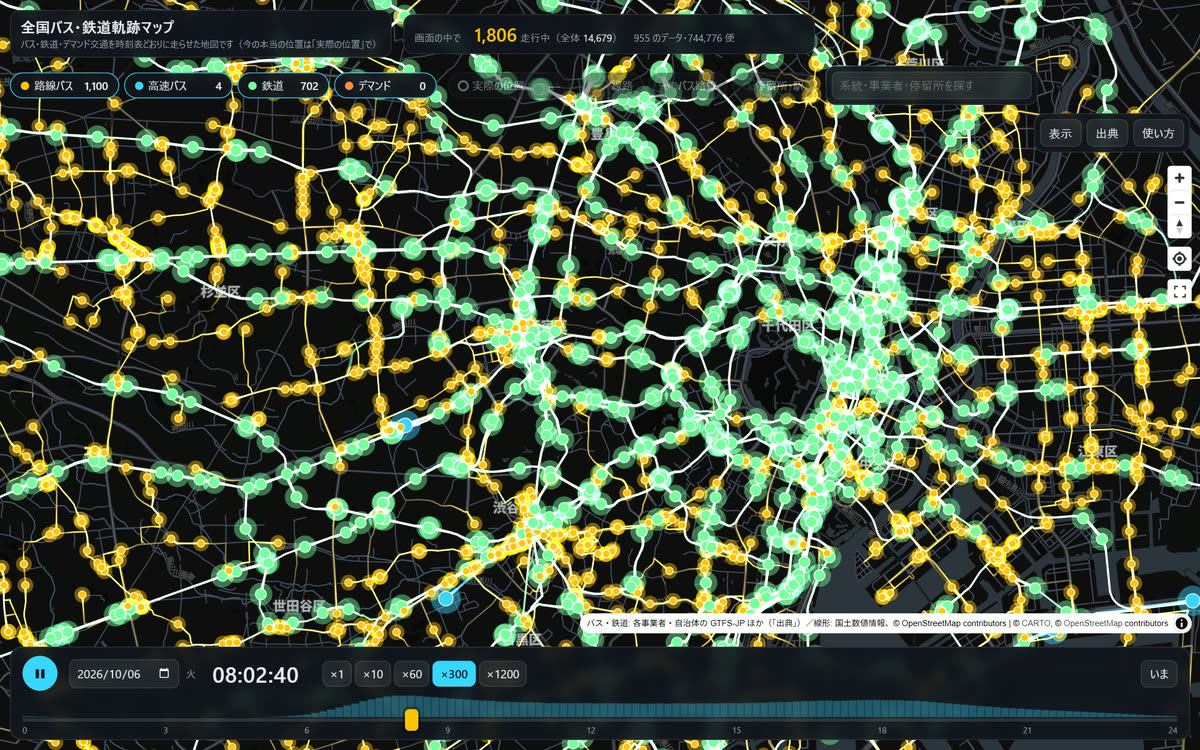
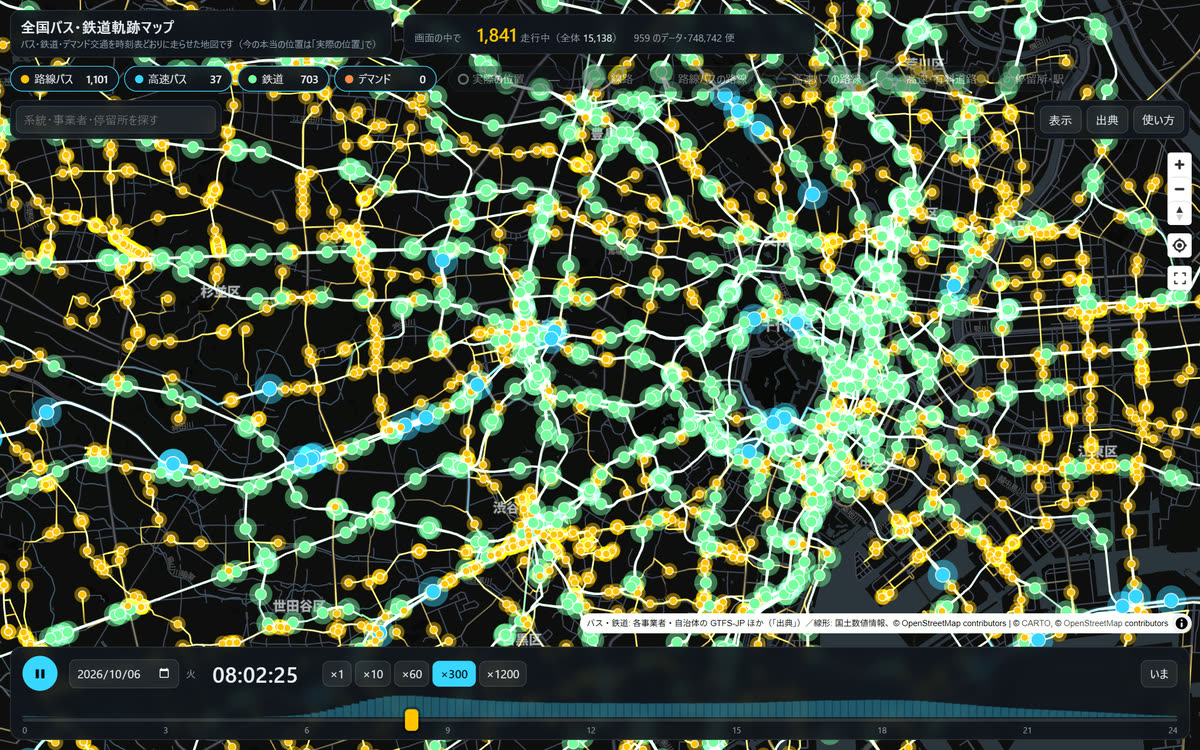
deploy from BusTracker 2026-10-05

diff --git a/manual.html b/manual.html
@@ -88,12 +88,13 @@
   </nav>
 
   <h2 id="about"><span class="n">1</span>このアプリについて</h2>
-  <p>全国の事業者・自治体が公開している公共交通の時刻表データ（GTFS-JP など）を一つの地図に集め、<b>約 74 万便</b>（20 種類の入手先・850 事業者・955 のデータ）を時刻表どおりに走らせています。路線バス・高速バス・鉄道・デマンド交通を同じ地図で見られます。</p>
+  <p>全国の事業者・自治体が公開している公共交通の時刻表データ（GTFS-JP など）を一つの地図に集め、<b>約 75 万便</b>（20 種類の入手先・約 870 事業者・959 のデータ）を時刻表どおりに走らせています。路線バス・高速バス・鉄道・デマンド交通を同じ地図で見られます。</p>
   <ul>
     <li>時刻を動かしたり早送りしたりして、朝のラッシュに都市へ集まり、夜に郊外へ散っていく公共交通の一日を見られます。</li>
     <li>バスや列車を押すと、系統・行先・停車駅と時刻が分かり、その便を地図が追いかけます。</li>
     <li>車両が配信している「いまの位置」（GTFS リアルタイム）を重ねて、時刻表との差（遅れ）を見られます。</li>
     <li>時刻表が公開されていない地域は列車・バスが走りません。全国の駅・線路・バス停を出し、走らない理由も示します。</li>
+    <li>高速バスは、GTFS の無い主要な路線も、予約サイト・事業者の時刻表から組み直して走らせています（約 1 万便）。高速道路・有料道路を通る道筋で描きます。</li>
   </ul>
   <figure><img src="manual/japan.jpg" alt="日本全体の地図に、朝 8 時のバス・鉄道が光の点と軌跡で表示されている" loading="lazy" width="1200" height="750"><figcaption>全国の一日（平日の朝 8 時、×300 で再生中）</figcaption></figure>
 
@@ -101,13 +102,22 @@
   <p>光る点がバス・列車、後ろに伸びて徐々に消えていく尾が、通ってきた軌跡（残像）です。高速バスは大きめの点と太い軌跡、鉄道は太めの軌跡で描きます。</p>
   <figure><img src="manual/city.jpg" alt="東京の都心部の地図に、多数のバス・鉄道が色とりどりの点と軌跡で表示されている。上に札と検索欄、下に時刻のつまみ" loading="lazy" width="1200" height="750"><figcaption>東京の朝のラッシュ。上の欄・下の欄・右の地図のボタン</figcaption></figure>
   <table>
-    <tr><th>上の欄</th><td>アプリ名、<b>画面の中で走っている台数</b>（かっこ内は読み込んだ全体）、乗り物の札（<a href="#modes">4</a>）、<span class="chip">実際の位置</span>（<a href="#realtime">7</a>）、<span class="chip">線路</span><span class="chip">路線バスの路線</span><span class="chip">高速バスの路線</span><span class="chip">停留所・駅</span>（<a href="#lines">8</a>）、検索欄、<span class="chip">表示</span><span class="chip">出典</span><span class="chip">使い方</span></td></tr>
+    <tr><th>上の欄</th><td>アプリ名、<b>画面の中で走っている台数</b>（かっこ内は読み込んだ全体）、乗り物の札（<a href="#modes">4</a>）、<span class="chip">実際の位置</span>（<a href="#realtime">7</a>）、<span class="chip">線路</span><span class="chip">路線バスの路線</span><span class="chip">高速バスの路線</span><span class="chip">高速・有料道路</span><span class="chip">停留所・駅</span>（<a href="#lines">8</a>）、検索欄、<span class="chip">表示</span><span class="chip">出典</span><span class="chip">使い方</span></td></tr>
     <tr><th>右の地図のボタン</th><td>拡大・縮小、方角（押すと北を上に戻す）、現在地、全体表示（日本全体に戻る）</td></tr>
     <tr><th>右の情報欄</th><td>押した系統・便・停留所・駅・車両の詳しい情報（<a href="#select">5</a>）</td></tr>
     <tr><th>下の欄</th><td>再生・一時停止、日付と曜日の区分（平日・土・日祝）、時刻、速さ（×1〜×1200）、<span class="chip">いま</span>、時刻のつまみ。つまみの下の帯は、その時刻に走っている台数のグラフです</td></tr>
   </table>
-  <p>地図はドラッグで移動、ホイールやピンチで拡大・縮小できます。右ドラッグで回転と傾き（上下に動かす）、スマホは 2 本指で回転と傾き（上下に動かす）もできます。方角のボタンを押すと、北が上・真上からに戻ります。</p>
-  <p><span class="chip">表示</span> では、<b>軌跡の長さ</b>（なし・3 分・10 分・20 分・30 分・1 時間）と、<b>地図の明暗</b>（暗い・明るい）を選べます。</p>
+  <p>地図はドラッグで移動、ホイールやピンチで拡大・縮小できます。<b>右ドラッグ</b>（パソコン）で回転と傾き（上下に動かすと傾く）、スマホは 2 本指で回転と傾き（上下に動かす）もできます。方角のボタン（傾きも表示）を押すと、北が上・真上からに戻ります。</p>
+  <h3>表示の設定</h3>
+  <p><span class="chip">表示</span> で次を選べます（地図の明暗・重ねる地図・3D の建物は、次に開いたときも覚えています）。</p>
+  <table>
+    <tr><th>軌跡の長さ</th><td>なし・3 分・10 分・20 分・30 分・1 時間</td></tr>
+    <tr><th>地図</th><td>暗い・明るい</td></tr>
+    <tr><th>重ねる地図</th><td>国土地理院の地図（<b>淡色地図</b>＝地名・境界、<b>標準地図</b>、<b>航空写真</b>）を半透明で重ねて、地域を分かりやすくします。<b>濃さ</b>（10〜100%）も変えられます</td></tr>
+    <tr><th>3D の建物</th><td>地図を傾け、拡大すると建物が立ち上がります（縮尺 14 以上。バス・列車は建物の手前に描きます）。オフにすると真上からに戻ります。機種によっては動きが重くなります</td></tr>
+  </table>
+  <h3>初めて開いたときの説明</h3>
+  <p>初めて開いたときは、上の札（実際の位置・線路・バスの路線・高速・有料道路・停留所と駅）の説明が出ます。× で閉じると次からは出ません。<span class="chip">使い方</span> の <span class="chip">札の説明を出す</span> でいつでも出せます。</p>
 
   <h2 id="time"><span class="n">3</span>時刻と早送り</h2>
   <ul>
@@ -128,7 +138,7 @@
   <p>上の札を押すと、その乗り物を出したり消したりできます。札の数は、画面の中でいま走っている台数です。</p>
   <table>
     <tr><th><span class="dot" style="background:var(--bus)"></span> 路線バス</th><td>一般の路線バス・コミュニティバス</td></tr>
-    <tr><th><span class="dot" style="background:var(--hw)"></span> 高速バス</th><td>高速バス・空港リムジンなど（大きめの点・太い軌跡）</td></tr>
+    <tr><th><span class="dot" style="background:var(--hw)"></span> 高速バス</th><td>高速バス・空港リムジンなど（大きめの点・太い軌跡）。路線バスの事業者のデータの中の長距離の系統（停留所の間隔が長いもの）も高速バスとして扱います</td></tr>
     <tr><th><span class="dot" style="background:var(--rail)"></span> 鉄道</th><td>JR・私鉄・地下鉄・路面電車など（約 10 万便）</td></tr>
     <tr><th><span class="dot" style="background:var(--demand)"></span> デマンド</th><td>予約して乗るデマンド交通。決まった経路が無いので、<b>乗れる区域</b>を、予約を受け付けている時間帯に光らせます。数は受付中の区域の数です</td></tr>
   </table>
@@ -143,7 +153,7 @@
         <li><b>停留所・駅を押す</b>と、そこを通る系統・路線の一覧が出て、押すと選べます。</li>
         <li>情報欄のボタン: <span class="chip">この系統に寄る</span>（系統全体が入るように地図を動かす）、<span class="chip">このバスを追う</span>（<a href="#follow">6</a>）、<span class="chip">閉じる</span>。</li>
         <li>地図の何も無い所を押すか <kbd>Esc</kbd> で、選択を外せます。</li>
-        <li>上の<b>検索欄</b>で、系統名・事業者名・停留所名から探せます。</li>
+        <li>上の<b>検索欄</b>で、系統名・事業者名・停留所名から探せます。候補を押すと、その系統（全体が入るように地図を動かす）や停留所（停留所へ寄る）を選びます。</li>
       </ul>
     </div>
   </div>
@@ -175,7 +185,7 @@
     <tr><th>線路</th><td>全国の鉄道の線路（国土数値情報）。押すと、その路線で列車を走らせているか、走らせていない理由が出ます</td></tr>
     <tr><th>路線バスの路線</th><td>路線バス（一般の路線・コミュニティバス）の通り道。淡い金色。押すとその系統を選べます</td></tr>
     <tr><th>高速バスの路線</th><td>高速バス・空港バスの通り道。シアン。押すとその系統を選べます</td></tr>
-    <tr><th>高速・有料道路</th><td>高速道路と有料道路（六甲北有料道路など）。紫。多くの高速バスはこの道を走ります</td></tr>
+    <tr><th>高速・有料道路</th><td>高速道路と有料道路（六甲北有料道路・新神戸トンネルなど）。紫。多くの高速バスはこの道を走ります</td></tr>
     <tr><th>停留所・駅</th><td>駅（白い点。少し拡大すると出ます）と、バス停（大きく拡大すると出ます）。<b>灰色の小さな点</b>は、時刻表のデータがまだ無いバス停（国土数値情報の全国のバス停 約 27.8 万か所）です</td></tr>
   </table>
 
@@ -193,7 +203,9 @@
   <div class="row">
     <div>
       <ul>
-        <li>スマートフォンでは、全国のデータを一度に読まず、<b>見ている範囲のデータだけ</b>を読みます（上の欄に「見ている範囲 ○ データ」）。地図を動かすと、足りない分を読み、離れた地域は手放します。</li>
+        <li>スマートフォンでは、全国のデータを一度に読まず、<b>見ている範囲のデータだけ</b>を読みます（上の欄に「見ている範囲 ○ データ」）。地図を動かすと、足りない分を読み、離れた地域は手放します。広く見ていて一部しか読めないときは「（広域は一部。拡大すると全部）」と出ます。</li>
+        <li>全国にまたがるデータ（高速バス・長距離の列車）は、地域のデータとは別に読むので、どこを見ていても高速バスが走ります。</li>
+        <li><b>検索</b>は、まだ読んでいない地域も探せます（初めて検索欄を使うときに、全国の系統名・停留所名の一覧を読みます）。遠くの候補を押すと地図がそこへ移り、データが読めたら選ばれます。</li>
         <li>別の地域へ大きく移動した直後は、読み込みが終わるまで少し待ってください。</li>
         <li>上の札は横にスクロールできます。地図のボタンは横一列、地図の出典は「i」を押すと出ます。</li>
         <li>2 本指で拡大・縮小・回転できます。2 本指の操作では追いかけをやめません。</li>
@@ -213,16 +225,17 @@
     <tr><th>北海道オープンデータプラットフォーム（HODA）</th><td>北海道内のバス事業者・市町村の GTFS-JP。北海道オープンデータ推進協議会、クリエイティブ・コモンズ・ライセンス 表示 2.1 日本（改変して利用）</td></tr>
     <tr><th>事業者・協会の公開</th><td>広島県バス協会、Bus-Vision、佐賀のバス、富士急バス、ことでん、各地のコミュニティバスほか</td></tr>
     <tr><th>国土数値情報（国土交通省）</th><td>鉄道データ（N02）: 線路・駅、列車を線路に沿わせる。バス停留所データ（P11）: 全国のバス停。CC BY 4.0</td></tr>
-    <tr><th>OpenStreetMap</th><td>形状の無いバスの系統を道路に沿わせる道路データ（© OpenStreetMap contributors、ODbL）。背景地図は © CARTO、© OpenStreetMap contributors</td></tr>
+    <tr><th>OpenStreetMap</th><td>形状の無いバスの系統を道路に沿わせる道路データ、高速道路の上のバス停の位置（© OpenStreetMap contributors、ODbL）。背景地図は © CARTO、© OpenStreetMap contributors</td></tr>
+    <tr><th>国土地理院</th><td>重ねる地図（淡色地図・標準地図・航空写真）。出典「地理院タイル」</td></tr>
   </table>
-  <p><b>オープンデータではないもの</b>（「出典」で区別して表示）: 神姫バス・鹿児島市電・伊予鉄道は、公式サイトの時刻表から組み直したもの（非公式・非商用）です。大阪シティバス・南海バス・山梨交通は、インターネット上で取得できるものの公開の案内が無い配信を使っています。</p>
+  <p><b>オープンデータではないもの</b>（「出典」で区別して表示）: 神姫バス・鹿児島市電・伊予鉄道は、公式サイトの時刻表から組み直したもの（非公式・非商用）です。<b>高速バス</b>の一部（約 5 千便）は、ハイウェイバスドットコム・ジェイアールバス関東・西日本ジェイアールバス・発車オーライネットの時刻表と便の案内から組み直したもの（非公式・非商用）で、停留所の位置は名前から探して推定しています。大阪シティバス・南海バス・山梨交通は、インターネット上で取得できるものの公開の案内が無い配信を使っています。</p>
   <p class="muted">位置は時刻表をもとにアプリが計算したもので、加工したデータです。データの作成日は「出典」の下にあります。</p>
 
   <h2 id="caution"><span class="n">12</span>注意</h2>
   <div class="note">
     <ul>
       <li>地図の点は、公開されている<b>時刻表どおりに走った場合の推定位置</b>です。実際の運行とは異なります。<b>遅れ・運休・臨時ダイヤは入っていません。</b>（「実際の位置」をオンにしたときの印だけが、配信されている本当の位置です。）</li>
-      <li>停留所の間の位置は、時刻表の時刻と道路・線路の形から計算しています。形のデータが無い系統は、道路（OpenStreetMap）や線路（国土数値情報）に沿わせて補っています。</li>
+      <li>停留所の間の位置は、時刻表の時刻と道路・線路の形から計算しています。形のデータが無い系統は、道路（OpenStreetMap）や線路（国土数値情報）に沿わせて補っています。道路に沿わせるときは、停留所の間の時刻表の所要時間から、高速道路・有料道路を使うかを推定して道を選んでいます（実際の経路と違うことがあります）。</li>
       <li>時刻表の期間が切れている事業者は、同じ曜日（土休日）の最後のダイヤで代わりに走らせ、「代わりのダイヤ」と表示します。</li>
       <li>実際の位置の遅れは、配信された位置を時刻表で通る時刻と比べた<b>目安</b>です。配信が遅れたり止まったりすることがあります。</li>
       <li>このアプリは<b>非公式</b>で、事業者・自治体・データの提供元とは関係ありません。公式サイトから組み直したデータについて、事業者へ問い合わせないでください。</li>

diff --git a/index.html b/index.html
@@ -1,7 +1,7 @@
 <!doctype html>
 <html lang="ja">
 <head>
-<meta charset="utf-8"><meta name="build" content="01420ca-1644">
+<meta charset="utf-8"><meta name="build" content="4dfd3d9-1652">
 <meta name="viewport" content="width=device-width, initial-scale=1, viewport-fit=cover">
 <title>全国バス・鉄道軌跡マップ</title>
 <!-- 地図の軌跡（シアン）と乗り物（黄）。指定が無いとブラウザがサイトの一番上の /favicon.ico を取りに行き 404 になっていた -->
@@ -11,7 +11,7 @@
 <link rel="preconnect" href="https://basemaps.cartocdn.com" crossorigin>
 <link rel="preconnect" href="https://tiles.basemaps.cartocdn.com" crossorigin>
 <link rel="stylesheet" href="https://unpkg.com/maplibre-gl@4.7.1/dist/maplibre-gl.css">
-<link rel="stylesheet" href="./style.css?v=01420ca-1644">
+<link rel="stylesheet" href="./style.css?v=4dfd3d9-1652">
 <script src="https://unpkg.com/maplibre-gl@4.7.1/dist/maplibre-gl.js"></script>
 <script src="https://unpkg.com/deck.gl@9.1.14/dist.min.js"></script>
 </head>
@@ -133,6 +133,6 @@
 </dialog>
 
 <div id="tip" hidden></div>
-<script type="module" src="./app.mjs?v=01420ca-1644"></script>
+<script type="module" src="./app.mjs?v=4dfd3d9-1652"></script>
 </body>
 </html>
